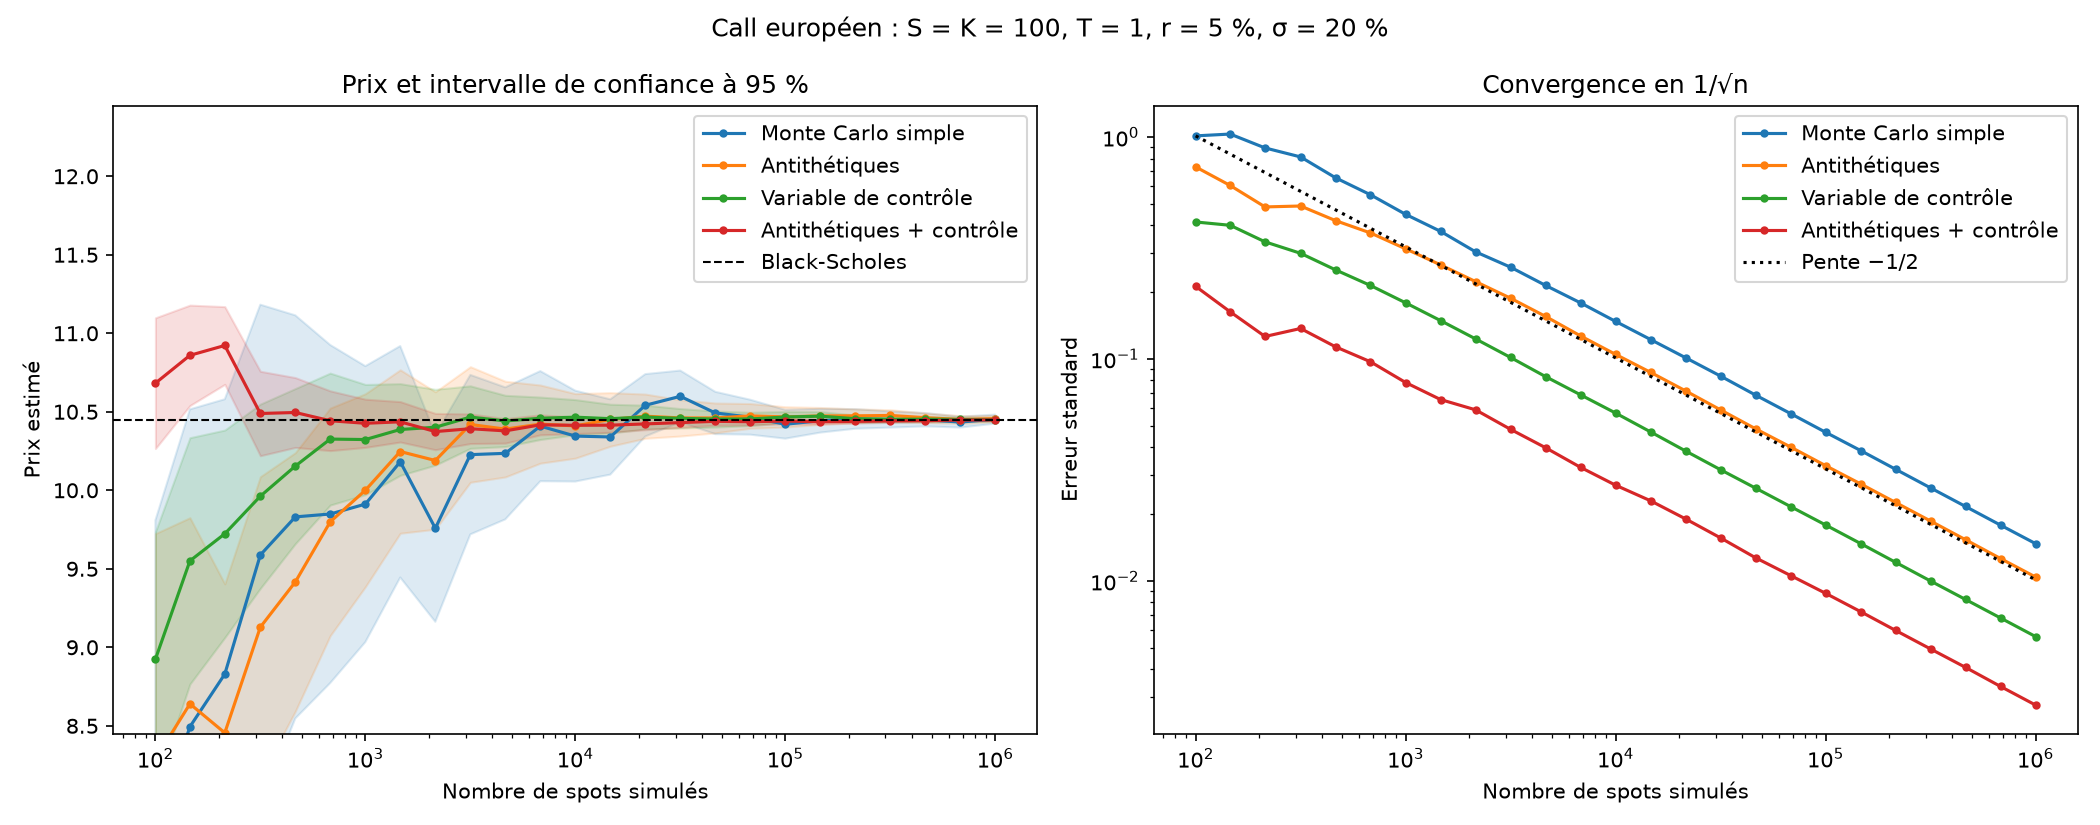
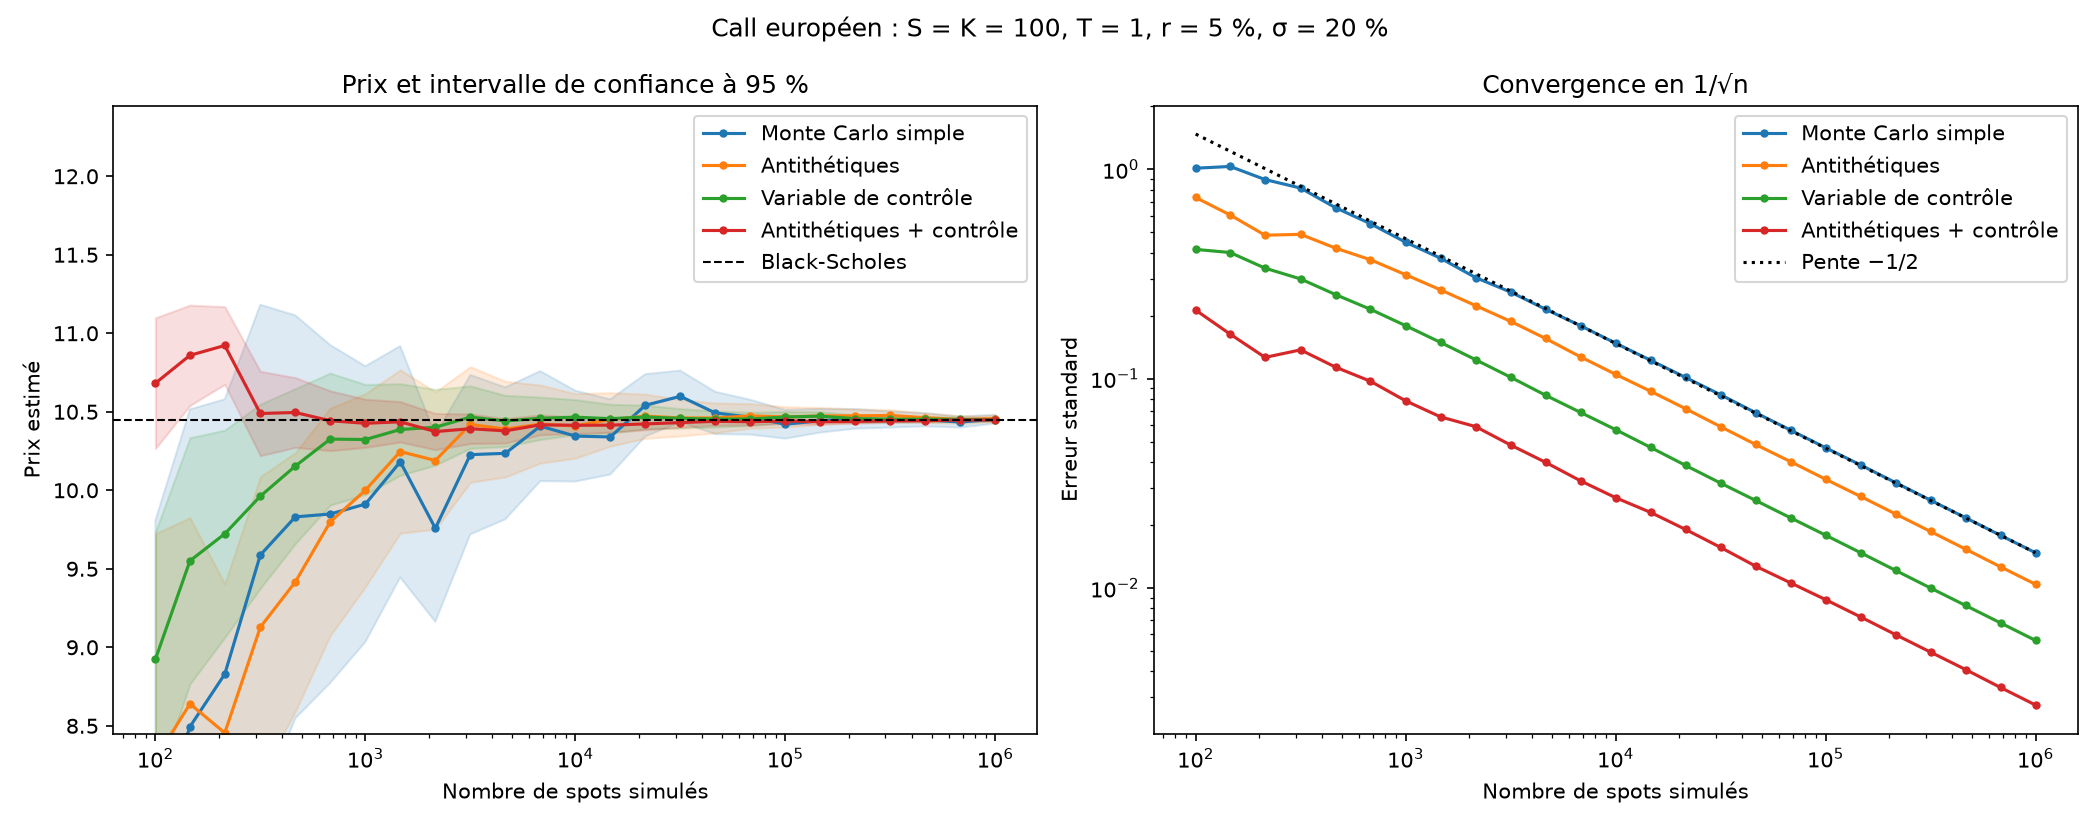
Arbre binomial Cox-Ross-Rubinstein

diff --git a/tests/test_binomial.py b/tests/test_binomial.py
@@ -1,0 +1,45 @@
+import numpy as np
+import pytest
+
+from pricer.engines.analytic import BlackScholesEngine
+from pricer.engines.binomial import BinomialTreeEngine
+from pricer.instruments import EuropeanOption
+from pricer.market_data import MarketData
+
+CAS = [
+    (100, 100, 1.0, 0.05, 0.00, 0.20),
+    (100, 120, 0.5, 0.03, 0.02, 0.30),
+    (80, 100, 2.0, 0.01, 0.00, 0.50),
+    (120, 100, 0.25, 0.05, 0.03, 0.15),
+]
+
+
+@pytest.mark.parametrize("option_type", ["call", "put"])
+@pytest.mark.parametrize("S, K, T, r, q, sigma", CAS)
+def test_arbre_converge_vers_black_scholes(S, K, T, r, q, sigma, option_type):
+    marche = MarketData(spot=S, rate=r, dividend=q, vol=sigma)
+    option = EuropeanOption(K, T, option_type)
+
+    prix_bs = BlackScholesEngine().price(option, marche)
+    prix_arbre = BinomialTreeEngine(n_steps=2000).price(option, marche)
+
+    assert prix_arbre == pytest.approx(prix_bs, abs=0.01)
+
+
+@pytest.mark.parametrize("S, K, T, r, q, sigma", CAS)
+def test_parite_dans_l_arbre(S, K, T, r, q, sigma):
+    """p rend l'action actualisée neutre en moyenne : la parité tient exactement dans l'arbre."""
+    marche = MarketData(spot=S, rate=r, dividend=q, vol=sigma)
+    moteur = BinomialTreeEngine(n_steps=500)
+
+    call = moteur.price(EuropeanOption(K, T, "call"), marche)
+    put = moteur.price(EuropeanOption(K, T, "put"), marche)
+
+    assert call - put == pytest.approx(S * np.exp(-q * T) - K * np.exp(-r * T), abs=1e-8)
+
+
+def test_arbitrage_detecte():
+    """Taux élevé, volatilité faible et un seul pas : p sort de [0, 1], le moteur doit refuser."""
+    marche = MarketData(spot=100, rate=0.5, dividend=0.0, vol=0.01)
+    with pytest.raises(ValueError):
+        BinomialTreeEngine(n_steps=1).price(EuropeanOption(100, 1.0), marche)

diff --git a/pricer/engines/binomial.py b/pricer/engines/binomial.py
@@ -1,0 +1,38 @@
+import numpy as np
+
+from pricer.engines.base import PricingEngine
+from pricer.instruments import EuropeanOption
+
+
+class BinomialTreeEngine(PricingEngine):
+    """Arbre de Cox-Ross-Rubinstein : remontée par actualisation risque-neutre."""
+
+    def __init__(self, n_steps=500):
+        self.n_steps = n_steps
+
+    def price(self, instrument, market):
+        if not isinstance(instrument, EuropeanOption):
+            raise TypeError("Ce moteur ne gère pour l'instant que les options européennes.")
+
+        S, r, q, sigma = market.spot, market.rate, market.dividend, market.vol
+        T, N = instrument.maturity, self.n_steps
+
+        dt = T / N
+        u = np.exp(sigma * np.sqrt(dt))
+        d = 1 / u
+        croissance = np.exp((r - q) * dt)
+        if not d < croissance < u:
+            raise ValueError("Pas de temps trop grand : p sort de [0, 1], augmente n_steps.")
+        p = (croissance - d) / (u - d)
+        actualisation = np.exp(-r * dt)
+
+        # Spots finaux : j = nombre de hausses, de 0 à N. S * u^j * d^(N-j) = S * exp(sigma*sqrt(dt)*(2j - N))
+        j = np.arange(N + 1)
+        S_T = S * np.exp(sigma * np.sqrt(dt) * (2 * j - N))
+        valeurs = instrument.payoff(S_T)
+
+        # Remontée : le nœud j a pour successeurs j+1 (hausse) et j (baisse).
+        for _ in range(N):
+            valeurs = actualisation * (p * valeurs[1:] + (1 - p) * valeurs[:-1])
+
+        return float(valeurs[0])
